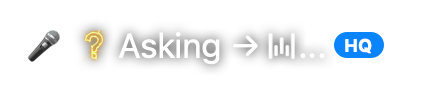
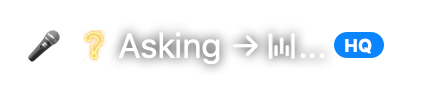
❓ The question mark in front of Asking plays the film's loop
48 cells of question-mark.mov (4 s at 12 fps) in one sheet; a CALayer
over a transparent hole in the words plays them, so the ink ticker that
rewrites the row never touches it. The states page and the Transcribing
row keep the first cell, still.

Changed region(s): [[0.1797, 0.2826, 0.2696, 0.6957]]

diff --git a/Sources/WalkieTalkie/RelayWindow.swift b/Sources/WalkieTalkie/RelayWindow.swift
@@ -145,6 +145,9 @@ private let heardLabel = NSTextField(labelWithString: "")
     /// layer to animate and re-rasterising it at a new size every frame would put
     /// a relayout in the one loop that must not have one.
     private let listenBadge = NSImageView()
+    /// The ❓ of a quick question, playing — `placeQuestion`.
+    private let questionView = NSImageView()
+    private let questionLoop = CALayer()
     /// Whether the badge is currently up, so the pop fires on the edge and not on
     /// every repaint of a full bar.
     private var listenBadgeUp = false
@@ -1408,6 +1411,10 @@ private let heardLabel = NSTextField(labelWithString: "")
         listenBadge.imageScaling = .scaleProportionallyUpOrDown
         listenBadge.wantsLayer = true
         listenBadge.isHidden = true
+        questionView.image = Self.questionGlyph
+        questionView.imageScaling = .scaleProportionallyUpOrDown
+        questionView.wantsLayer = true
+        questionView.isHidden = true
         elapsedLabel.font = hintFont
         elapsedLabel.textColor = .secondaryLabelColor
         elapsedLabel.isHidden = true
@@ -1422,6 +1429,7 @@ private let heardLabel = NSTextField(labelWithString: "")
         engineRow.addSubview(recordDot)
         engineRow.addSubview(engineInfo)
         engineRow.addSubview(listenBadge)
+        engineRow.addSubview(questionView)
         engineRow.addSubview(elapsedLabel)
         engineRow.isHidden = true
         root.addSubview(engineRow)
@@ -2829,21 +2837,37 @@ private let heardLabel = NSTextField(labelWithString: "")
     /// **The ⚡ quick question wears the film's ❓, not a ⚡, in front of
     /// `Asking...`** (2026-10-12, Victor: *"în loc de fulger din fața Asking …
     /// un semnul întrebării … galben în stilul celui care apare ca efect"*). A
-    /// still of `question-mark.mov`, gold with its first crackle of bolts
+    /// crop of `question-mark.mov`, gold with its first crackle of bolts
     /// (`tools/build-question-icon.py`) — an emoji ❓ is red and says nothing
-    /// about the halo it opens. Missing file: the plain ⚡, as before.
-    static let questionGlyph: NSImage = {
-        guard let (url, _, _) = CaretHalo.sheetFile(["question-mark-icon.png"], override: "WT_QUESTION_ICON"),
-              let image = NSImage(contentsOf: url)
-        else { return Glyphs.emoji("⚡", ink: iconInk) }
-        image.size = NSSize(width: iconInk, height: iconInk)
-        return image
+    /// about the halo it opens. **It plays the film's loop** (same morning:
+    /// *"este și animat? Mi-ar plăcea"*): 48 cells, 12 fps, on `questionView`.
+    /// Missing file: the plain ⚡, as before.
+    static let questionFrames: [CGImage] = {
+        guard let (url, cols, rows) = CaretHalo.sheetFile(["question-mark-icon-8x6.png"], override: "WT_QUESTION_ICON"),
+              let data = try? Data(contentsOf: url),
+              let sheet = NSBitmapImageRep(data: data)?.cgImage
+        else { return [] }
+        let w = sheet.width / cols, h = sheet.height / rows
+        return (0..<cols * rows).compactMap {
+            sheet.cropping(to: CGRect(x: ($0 % cols) * w, y: ($0 / cols) * h, width: w, height: h))
+        }
     }()
+    /// The loop's first cell — the still the states page photographs, and the
+    /// mark on the `Transcribing...` row, which has no view of its own to play on.
+    static let questionGlyph: NSImage = questionFrames.first.map {
+        NSImage(cgImage: $0, size: NSSize(width: iconInk, height: iconInk))
+    } ?? Glyphs.emoji("⚡", ink: iconInk)
+    /// The ❓'s room in `Asking...`: an attachment draws one picture and never
+    /// another, so the words keep a transparent square where `questionView`
+    /// plays the loop on top.
+    private static let questionHole = NSImage(size: NSSize(width: iconInk, height: iconInk), flipped: false) { _ in true }
     /// The picture a collapsed spawn mark is drawn as: the ❓ for a quick
-    /// question (`questionMark`), any other character as its emoji.
+    /// question (`questionMark`) — its hole when `questionView` plays over it —
+    /// any other character as its emoji.
     static let questionMark = "❓"
-    private static func markGlyph(_ mark: String) -> NSImage {
-        mark == questionMark ? questionGlyph : Glyphs.emoji(mark, ink: iconInk)
+    private static func markGlyph(_ mark: String, played: Bool = false) -> NSImage {
+        guard mark == questionMark else { return Glyphs.emoji(mark, ink: iconInk) }
+        return played && !questionFrames.isEmpty ? questionHole : questionGlyph
     }
 
 
@@ -3397,7 +3421,7 @@ private let heardLabel = NSTextField(labelWithString: "")
         // because the *other* spawn state (a picked folder, wider chip) drew
         // correctly. Measured, not reasoned: `docs/states/spawn.png`.
         if spawnCollapsed, let mark = spawnMark {
-            out.append(Self.inline(Self.markGlyph(mark), font: hintFont))
+            out.append(Self.inline(Self.markGlyph(mark, played: true), font: hintFont))
             out.append(NSAttributedString(string: " ", attributes: [.font: hintFont]))
         }
 
@@ -3475,7 +3499,47 @@ private let heardLabel = NSTextField(labelWithString: "")
         engineInfo.attributedStringValue = out
         warmthLit = steps
         placeListenExtras(after: out)
+        placeQuestion(shown: spawnCollapsed && spawnMark == Self.questionMark && !Self.questionFrames.isEmpty)
     }
+
+    /// **The ❓ in front of `Asking...` plays the film's loop** over the hole
+    /// `markGlyph(played:)` leaves in the words. A layer animation, so the ink
+    /// ticker that rewrites this row's string fifteen times a second never
+    /// touches it and nothing relayouts per frame. It plays on a sublayer of
+    /// its own (`questionLoop`), never on the image view's layer, whose contents
+    /// AppKit owns. `RELAY_SHOOT` gets the still instead (the view's image,
+    /// which `cacheDisplay` draws) — the catalogue photographs states.
+    private func placeQuestion(shown: Bool) {
+        questionView.isHidden = !shown
+        guard shown else { questionLoop.removeAnimation(forKey: "loop"); return }
+        let side = Self.iconInk
+        questionView.frame = NSRect(x: engineInfo.frame.minX + Self.questionInset.x,
+                                    y: ((engineRow.frame.height - side) / 2).rounded() + Self.questionInset.y,
+                                    width: side, height: side)
+        guard ProcessInfo.processInfo.environment["RELAY_SHOOT"] == nil, let host = questionView.layer else { return }
+        if questionLoop.superlayer !== host {
+            questionView.image = nil
+            questionLoop.contentsGravity = .resizeAspect
+            questionLoop.contents = Self.questionFrames.first
+            host.addSublayer(questionLoop)
+        }
+        CATransaction.begin()
+        CATransaction.setDisableActions(true)
+        questionLoop.frame = host.bounds
+        questionLoop.contentsScale = questionView.window?.backingScaleFactor ?? 2
+        CATransaction.commit()
+        guard questionLoop.animation(forKey: "loop") == nil else { return }
+        let loop = CAKeyframeAnimation(keyPath: "contents")
+        loop.values = Self.questionFrames
+        loop.calculationMode = .discrete
+        loop.duration = 4
+        loop.repeatCount = .infinity
+        loop.isRemovedOnCompletion = false
+        questionLoop.add(loop, forKey: "loop")
+    }
+    /// Where the hole sits in `engineInfo`: the label's text inset, measured
+    /// against the still drawn in place on the states page.
+    private static let questionInset = CGPoint(x: 2, y: 0)
 
     /// **An `HQ` tag pops out at the end of `Listening...` the moment it fills,
     /// and the minutes sit after it.**

diff --git a/docs/overlay-states.html b/docs/overlay-states.html
@@ -765,7 +765,7 @@
       </section>
     </div>
 <footer>
-  Generated from <code>OverlayStates.swift</code> · repo at 50b3c34 · 11 Oct 2026 · built 12 Oct 2026, 08:57
+  Generated from <code>OverlayStates.swift</code> · repo at 9271317 · 12 Oct 2026 · built 12 Oct 2026, 10:58
 </footer>
 <button class="toggle" onclick="document.body.classList.toggle('light')">Backdrop: dark / light</button>
 </body>

diff --git a/tools/build-question-icon.py b/tools/build-question-icon.py
@@ -1,13 +1,17 @@
 #!/usr/bin/env python3
-"""Build assets/question-mark-icon.png — the ⚡ quick question's mark on the chip.
+"""Build assets/question-mark-icon-8x6.png — the ⚡ quick question's mark on the chip.
 
-Usage: tools/build-question-icon.py [frame]
+Usage: tools/build-question-icon.py [first-frame]
 
-One still of `assets/question-mark.mov` (2026-10-12, Victor: *"în loc de fulger
-din fața Asking … un semnul întrebării … galben în stilul celui care apare ca
-efect"*), cropped square on the question mark and its first crackle of bolts.
-The film's colour is stored premultiplied (`tools/build-question-mark.py`), so it
-is divided back by alpha here — read straight, the gold edges came out muddy.
+`assets/question-mark.mov` cropped square on the question mark and its first
+crackle of bolts (2026-10-12, Victor: *"în loc de fulger din fața Asking … un
+semnul întrebării … galben în stilul celui care apare ca efect"*), then, the
+same morning, *"este și animat? Mi-ar plăcea"*: the film's whole 4 s loop at
+12 fps, 48 cells packed eight across, read left to right, top to bottom.
+`RelayWindow.questionView` plays them; the first cell is the still the states
+page photographs. The film's colour is stored premultiplied
+(`tools/build-question-mark.py`), so it is divided back by alpha here — read
+straight, the gold edges came out muddy.
 """
 import subprocess, sys, tempfile, pathlib
 from PIL import Image
@@ -15,22 +19,30 @@ from PIL import Image
 ROOT = pathlib.Path(__file__).resolve().parent.parent
 BOX = (470, 160, 790, 590)   # the "?" in the 1280×720 frame
 SIZE = 96                    # 18 pt × 2, with room to spare for a 3× screen
+COLS, ROWS = 8, 6            # 48 cells: every other frame of the 96-frame loop
 
-def main():
-    frame = int(sys.argv[1]) if len(sys.argv) > 1 else 10
-    with tempfile.TemporaryDirectory() as d:
-        png = f"{d}/f.png"
-        subprocess.run(["ffmpeg", "-v", "error", "-i", str(ROOT / "assets/question-mark.mov"),
-                        "-vf", f"select=eq(n\\,{frame})", "-frames:v", "1", png], check=True)
-        decoded = Image.open(png).convert("RGBA")
+def cell(path):
+    decoded = Image.open(path).convert("RGBA")
     # Its bytes are premultiplied whatever the mode says: relabel them, and PIL
     # divides by alpha on the way back to RGBA.
     im = Image.frombytes("RGBa", decoded.size, decoded.tobytes()).convert("RGBA").crop(BOX)
     side = max(im.size)
     square = Image.new("RGBA", (side, side))
     square.paste(im, ((side - im.width) // 2, (side - im.height) // 2))
-    out = ROOT / "assets/question-mark-icon.png"
-    square.resize((SIZE, SIZE), Image.LANCZOS).save(out)
+    return square.resize((SIZE, SIZE), Image.LANCZOS)
+
+def main():
+    first = int(sys.argv[1]) if len(sys.argv) > 1 else 10
+    with tempfile.TemporaryDirectory() as d:
+        subprocess.run(["ffmpeg", "-v", "error", "-i", str(ROOT / "assets/question-mark.mov"),
+                        f"{d}/%04d.png"], check=True)
+        frames = sorted(pathlib.Path(d).glob("*.png"))
+        step = len(frames) // (COLS * ROWS)
+        sheet = Image.new("RGBA", (COLS * SIZE, ROWS * SIZE))
+        for k in range(COLS * ROWS):
+            sheet.paste(cell(frames[(first + k * step) % len(frames)]), ((k % COLS) * SIZE, (k // COLS) * SIZE))
+    out = ROOT / f"assets/question-mark-icon-{COLS}x{ROWS}.png"
+    sheet.save(out)
     print(out)
 
 if __name__ == "__main__":

diff --git a/.claude/rules/mouse-gestures.md b/.claude/rules/mouse-gestures.md
@@ -167,7 +167,7 @@ Off by default since 2026-09-09. Everything in this section is what the menu's *
 
 - **Right ⌥ ×2 and F5 over an open prompt end it, as 🔼 would** (2026-10-09, `keyboardEndsOpenPrompt`). They used to be refused (*"the relay's own engine is mid-sentence"*) — the opening half of the no-second-engine rule applied to a stop: at 19:28 a forward-button prompt could not be closed from the keyboard and took a Force Quit. Only the keyboard triggers; the 🔽 gestures keep their mid-prompt meanings and their refusal. Log `🎙 right ⌥ ×2 over an open prompt — its stop`.
 
-- **A quick question is `Asking`, and its 🔽 stop says `⚡ ask`** (2026-10-09, Victor: *"let's call it quick question … asking in the tooltip"*). The chip's row reads `❓ Asking → …` (`RelayWindow.asking`; the ❓ is a still of the halo's gold electric question mark, `RelayWindow.questionGlyph` from `assets/question-mark-icon.png` — `tools/build-question-icon.py`; a ⚡ until 2026-10-12, Victor: *"în loc de fulger din fața Asking … un semnul întrebării … galben"*), and the corner hint bar's 🔽 click and 🔽 → read `⚡ ask` instead of the plain dictation's `⏹ + ⏎` / `⏹` — the stop asks the model and no Return follows (`GestureHintBar.Stage.quick`).
+- **A quick question is `Asking`, and its 🔽 stop says `⚡ ask`** (2026-10-09, Victor: *"let's call it quick question … asking in the tooltip"*). The chip's row reads `❓ Asking → …` (`RelayWindow.asking`; the ❓ is a still of the halo's gold electric question mark, playing the film's 4 s loop at 12 fps on `RelayWindow.questionView` over a transparent hole in the words (same day, *"este și animat? Mi-ar plăcea"*) — 48 cells in `assets/question-mark-icon-8x6.png`, `tools/build-question-icon.py`; the states page and the `Transcribing...` row get the first cell, still; a ⚡ until 2026-10-12, Victor: *"în loc de fulger din fața Asking … un semnul întrebării … galben"*), and the corner hint bar's 🔽 click and 🔽 → read `⚡ ask` instead of the plain dictation's `⏹ + ⏎` / `⏹` — the stop asks the model and no Return follows (`GestureHintBar.Stage.quick`).
 ## Do not
 
 - **The numbers are duplicated in two places and must not drift**: Options+'s own custom-gesture screen, and `HotkeyTap`'s `VK_F3…VK_F12`.
